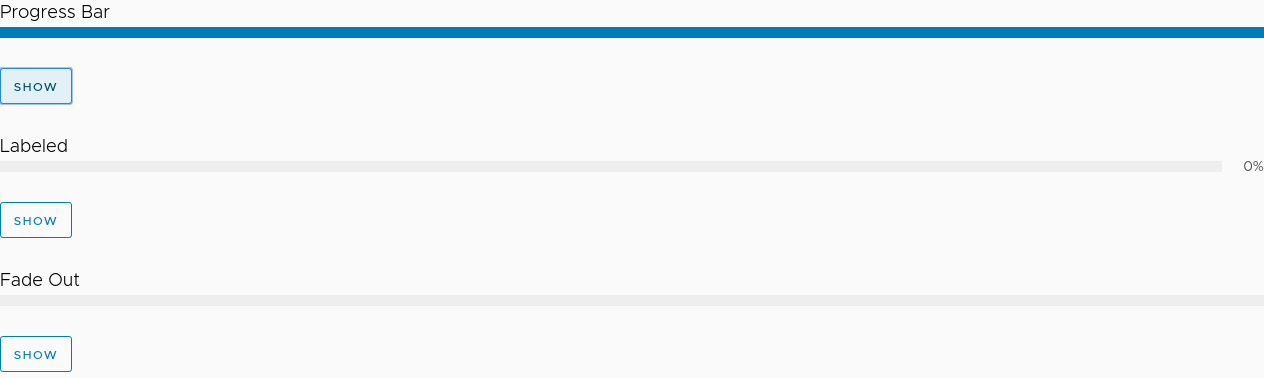
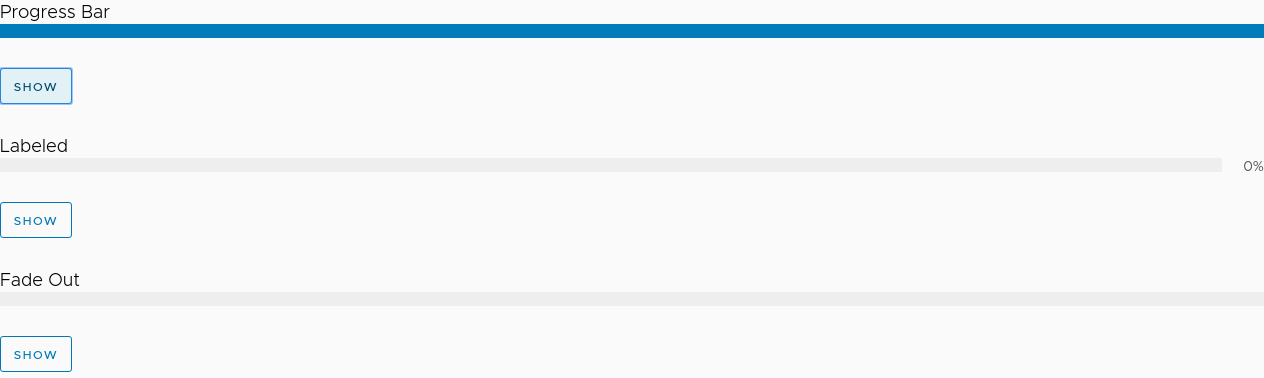
[UI] make progress element inline block

Changed region(s): [[0.0, 0.0582, 1.0, 0.0873]]

diff --git a/src/clr-angular/progress/progress-bars/_progress-bars.clarity.scss b/src/clr-angular/progress/progress-bars/_progress-bars.clarity.scss
@@ -51,6 +51,8 @@
     > progress {
       @include clr-appearance-normal();
 
+      display: block;
+
       background-color: $clr-progress-bgColor;
       border: none;
       // IE10 uses `color` to set the bar background-color
